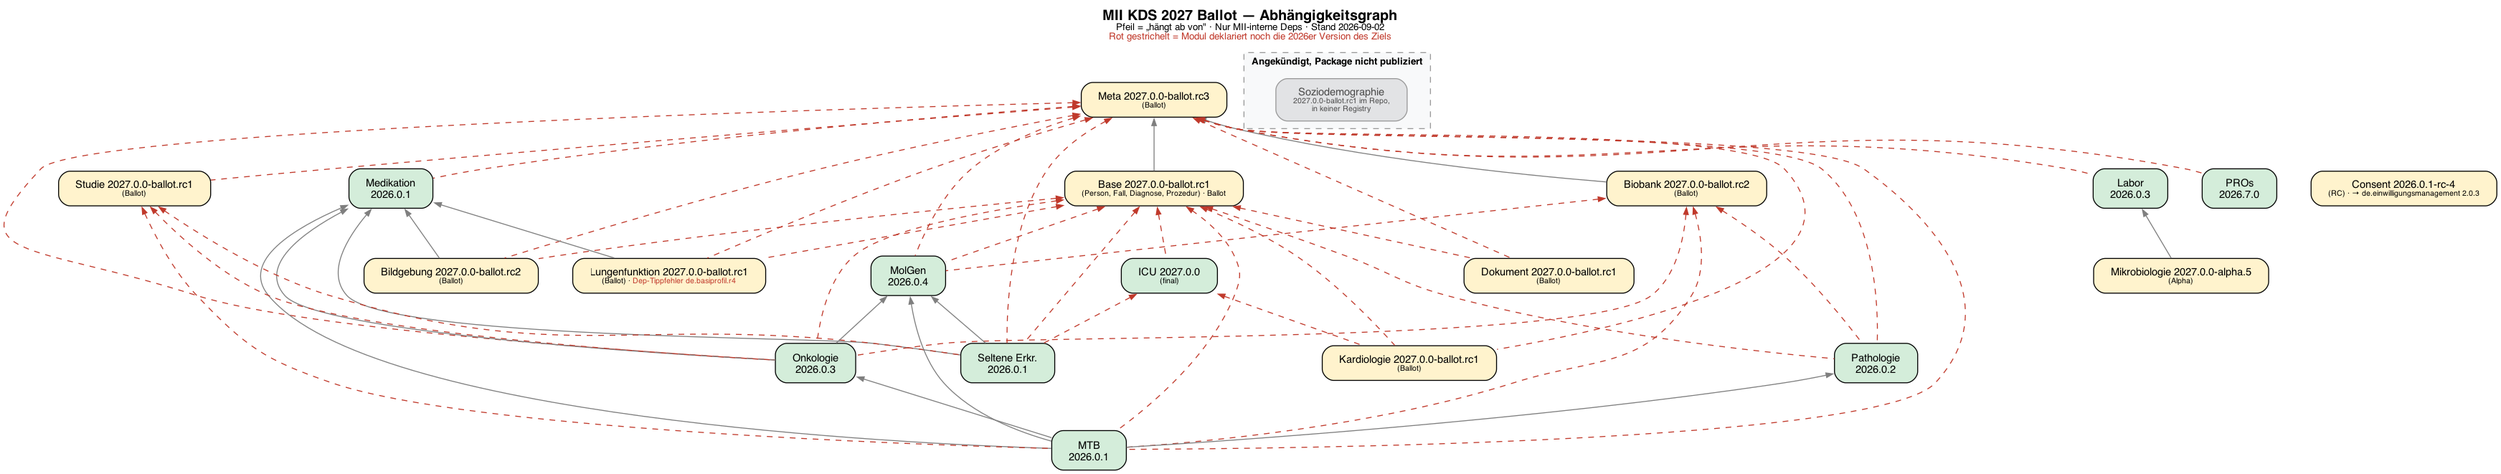
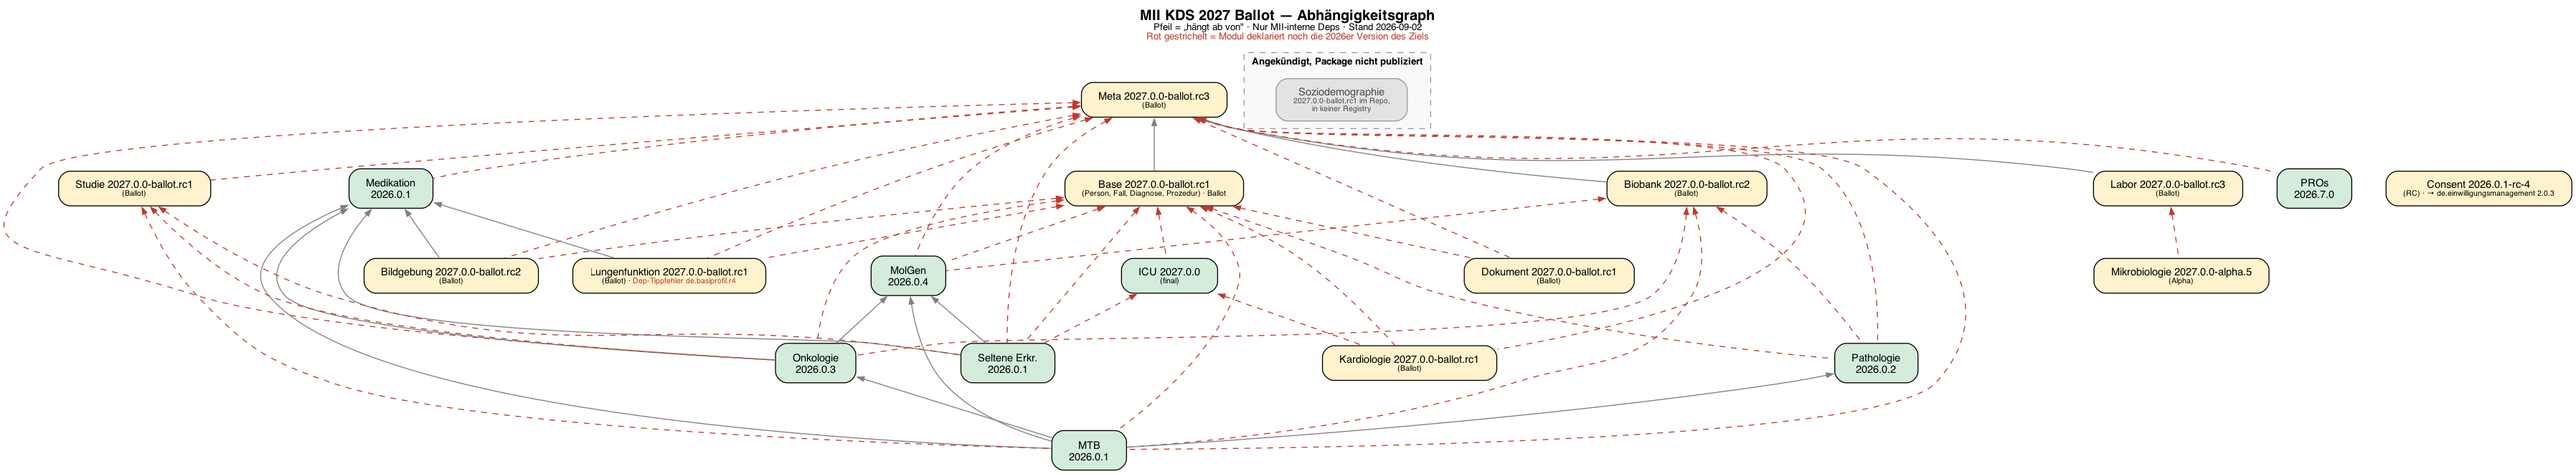
Laborbefund auf 2027.0.0-ballot.rc3, HAPI-Pakete ueber lokale Tarballs
Laborbefund hat drei Ballot-RCs auf einmal veroeffentlicht. Alle drei
deklarieren meta 2027.0.0-ballot.rc3 -- die Ballot-Linie ist damit an einer
weiteren Stelle kohaerent. Neu ziehen sie hl7.fhir.uv.ips 2.0.1 statt 2.0.0
sowie hl7.fhir.uv.crmi 2.0.0 und hl7.terminology.r4 7.1.0.

Zurueckgefallen ist dafuer Mikrobiologie 2027.0.0-alpha.5, das weiterhin
laborbefund 2026.0.3 fordert -- im Graphen jetzt rot gestrichelt.

Korrektur der frueheren Diagnose zum Validation-Server: HAPIs JpaPackageCache
liest den Dateisystem-Cache unter ~/.fhir/packages ueberhaupt nicht. Der
vorherige Fix (Pfad und Besitzer) war deshalb wirkungslos; dass ein Lauf
durchging, lag daran, dass die Registry in dem Moment nicht drosselte. HAPI
bekommt die Pakete jetzt ueber packageUrl aus lokalen Tarballs unter
/app/packages. Der Dockerfile laedt sie im Build ueber beide Registries mit
Retry, bereinigt und packt sie neu und bricht bei einem fehlgeschlagenen
Download ab, statt still ein unvollstaendiges Image zu erzeugen.

Gegenprobe: docker run --network none startet den Server vollstaendig durch,
7049 Ressourcen indiziert, 0 Registry-Versuche, 0 Ladefehler.

Laborbefund 2027.0.0-ballot.rc3 validiert alle sechs mitgelieferten Beispiele
fehlerfrei.

Claude-Session: https://claude.ai/code/session_01MJTiFA65uRigwFL6K5K7D4

diff --git a/docs/validation-2027.0.0-ballot.1.md b/docs/validation-2027.0.0-ballot.1.md
@@ -1,12 +1,20 @@
 # Validierungsbericht — BOM 2027.0.0-ballot.1
 
-Stand: 2026-09-02 · HAPI FHIR 7.6.0 · alle 27 gepinnten Pakete aus dem Pre-Cache, kein Registry-Zugriff zur Laufzeit.
+Stand: 2026-09-03 · HAPI FHIR 7.6.0 · alle 27 gepinnten Pakete als lokale Tarballs, verifiziert offline (`--network none`).
 
 ## Aufbau
 
-BOM-Paket gebaut mit `./scripts/build-bom-package.sh`: 19 Module, **1371 Conformance-Ressourcen**, 1042 Examples, 11 MB, **0 Dateinamen-Kollisionen**.
+BOM-Paket gebaut mit `./scripts/build-bom-package.sh`: 19 Module, **1373 Conformance-Ressourcen**, 1047 Examples, 11 MB, **0 Dateinamen-Kollisionen**.
 
-HAPI startet in 30 Sekunden und indiziert **7144 Ressourcen** aus 27 Paketen — ohne einen einzigen Konflikt beim Laden.
+HAPI startet in 26 Sekunden und indiziert **7049 Ressourcen** aus 27 Paketen — ohne einen einzigen Konflikt beim Laden.
+
+### Wie die Pakete zu HAPI kommen
+
+**HAPIs `JpaPackageCache` liest den Dateisystem-Cache unter `~/.fhir/packages` nicht.** Ohne weitere Konfiguration lädt der Server bei jedem Start jedes Paket erneut von `packages.fhir.org` — und scheitert dort früher oder später an `429 Too Many Requests` mit `HAPI-1301: Unable to locate package`. Ein Lauf, der durchgeht, ist dann Zufall, kein Beleg.
+
+Der Server bekommt die Pakete deshalb über `packageUrl: file:///app/packages/<name>-<version>.tgz`. Der Dockerfile lädt die Tarballs im Build, bereinigt sie (base64-PNGs wegen HAPI-1821, Examples, macOS-Resource-Forks) und packt sie neu; ein fehlgeschlagener Download bricht den Build jetzt ab, statt still ein unvollständiges Image zu erzeugen.
+
+Gegenprobe: `docker run --network none` startet den Server vollständig durch — 7049 Ressourcen, 0 Registry-Versuche, 0 Ladefehler.
 
 ## Die zentrale Frage: brechen die doppelten Canonicals?
 
@@ -18,8 +26,8 @@ Das Risiko bleibt für Konsumenten, die die Module **einzeln** statt über die B
 
 | | Anzahl |
 |---|---|
-| Terminologie-Fehler | 14 |
-| Strukturelle Fehler | 230 |
+| Terminologie-Fehler | 15 |
+| Strukturelle Fehler | 238 |
 
 ### Terminologie (14) — erwartbar
 
@@ -57,11 +65,15 @@ Betroffen z.B. `mii-pr-icu-score-rass`, `mii-pr-icu-untersuchung-pupillenbefund`
 
 Consent scheiterte an einer nicht auflösbaren Profilreferenz — das Profil *ist* im Paket, aber HAPI lädt Consent gar nicht (HAPI-1821-Workaround, Issue `mii-kds-complete-5e3`). Konfigurationslücke, kein Paketfehler.
 
+### Laborbefund 2027.0.0-ballot.rc3 — ohne Befund
+
+Alle sechs mitgelieferten Beispiele validieren **fehlerfrei** gegen ihre Profile: 0 Terminologie-, 0 strukturelle Fehler.
+
 ## Nebenbefunde aus dem Build
 
 - **ICU 2027.0.0**: zwei verschiedene ValueSets teilen sich dieselbe canonical URL (`mii-vs-icu-code-observation-extrakorporale-verfahren-loinc`). Verifiziert im unveränderten Registry-Paket.
 - **Dokument und Seltene**: macOS-Resource-Forks (`._package.json`) in den publizierten Tarballs. Der Build filtert sie jetzt.
-- **validation-server/Dockerfile**: der Pre-Cache lag unter `/root/.fhir/packages` mit Besitzer 1001, HAPI läuft aber als 65532 mit Home `/home/nonroot`. Der Cache war wirkungslos, HAPI lud bei jedem Start alle Pakete neu und scheiterte an `429 Too Many Requests`. Behoben.
+- **validation-server/Dockerfile**: der Pre-Cache unter `~/.fhir/packages` war grundsätzlich wirkungslos (siehe oben) und der Download-Loop prüfte nicht, ob `curl` erfolgreich war — ein unvollständiges Image lief grün durch. Beides behoben: lokale Tarballs über `packageUrl`, Retry über beide Registries, harter Abbruch bei Fehlschlag.
 
 ## Reproduzieren
 

diff --git a/input/pagecontent/index.md b/input/pagecontent/index.md
@@ -22,7 +22,7 @@ Während das [Meta-Modul](https://github.com/medizininformatik-initiative/kernda
 >
 > Neu in dieser BOM sind **Kardiologie** und **Lungenfunktion** (beide 2027.0.0-ballot.rc1). Lungenfunktion deklariert dabei die Abhängigkeit `de.basiprofil.r4` — ein Tippfehler, das Paket existiert nicht und die Abhängigkeit ist nicht auflösbar. **Soziodemographie** ist angekündigt, aber in keiner Registry publiziert und daher nicht gepinnt.
 >
-> Repariert gegenüber dem vorigen Stand: **Biobank 2027.0.0-ballot.rc2** verweist jetzt korrekt auf Meta 2027.0.0-ballot.rc3 statt auf 2026.0.0.
+> Repariert gegenüber dem vorigen Stand: **Biobank 2027.0.0-ballot.rc2** und **Laborbefund 2027.0.0-ballot.rc3** verweisen jetzt korrekt auf Meta 2027.0.0-ballot.rc3 statt auf 2026.0.0. Neu zurückgefallen ist dafür **Mikrobiologie 2027.0.0-alpha.5**, das weiterhin Laborbefund 2026.0.3 fordert.
 
 
 ## Abhängigkeitsgraph
@@ -42,7 +42,7 @@ Während das [Meta-Modul](https://github.com/medizininformatik-initiative/kernda
 | Base (Person, Fall, Diagnose, Prozedur, Consent) | `de.medizininformatikinitiative.kerndatensatz.base` | 2027.0.0-ballot.rc1 | [kerndatensatz-basis](https://github.com/medizininformatik-initiative/kerndatensatz-basis) | [v2027.0.0-ballot.rc1](https://github.com/medizininformatik-initiative/kerndatensatz-basis/releases/tag/v2027.0.0-ballot.rc1) (2026-09-01) |
 | Meta | `de.medizininformatikinitiative.kerndatensatz.meta` | 2027.0.0-ballot.rc3 | [kerndatensatz-meta](https://github.com/medizininformatik-initiative/kerndatensatz-meta) | [v2027.0.0-ballot.rc3](https://github.com/medizininformatik-initiative/kerndatensatz-meta/releases/tag/v2027.0.0-ballot.rc3) (2026-09-01) |
 | Medikation | `de.medizininformatikinitiative.kerndatensatz.medikation` | 2026.0.1 | [kerndatensatzmodul-medikation](https://github.com/medizininformatik-initiative/kerndatensatzmodul-medikation) | [v2026.0.1](https://github.com/medizininformatik-initiative/kerndatensatzmodul-medikation/releases/tag/v2026.0.1) (2026-02-13) |
-| Laborbefund | `de.medizininformatikinitiative.kerndatensatz.laborbefund` | 2026.0.3 | [kerndatensatzmodul-labor](https://github.com/medizininformatik-initiative/kerndatensatzmodul-labor) | [2026.0.3](https://github.com/medizininformatik-initiative/kerndatensatzmodul-labor/releases/tag/2026.0.3) (2026-06-11) |
+| Laborbefund | `de.medizininformatikinitiative.kerndatensatz.laborbefund` | 2027.0.0-ballot.rc3 | [kerndatensatzmodul-labor](https://github.com/medizininformatik-initiative/kerndatensatzmodul-labor) | [v2027.0.0-ballot.rc3](https://github.com/medizininformatik-initiative/kerndatensatzmodul-labor/releases/tag/v2027.0.0-ballot.rc3) (2026-09-02) |
 
 ### Erweiterungsmodule
 
@@ -105,7 +105,7 @@ Pakete ohne Pin werden weiterhin transitiv aufgelöst; ihre Version ergibt sich 
 | DVMD KDL (`dvmd.kdl.r4`) | 2025.0.1 (Dokument), 2026.0.0 (ICU) | Dokument, ICU |
 | DICOM (`fhir.dicom`) | 2025.3.20250714 | Bildgebung |
 | IHE FormatCode (`ihe.formatcode.fhir`) | 1.4.0 | Dokument |
-| HL7 International Patient Summary (`hl7.fhir.uv.ips`) | 2.0.0 | Medikation, Laborbefund |
+| HL7 International Patient Summary (`hl7.fhir.uv.ips`) | 2.0.0 (Medikation), 2.0.1 (Laborbefund) | Medikation, Laborbefund |
 | HL7 Structured Data Capture (`hl7.fhir.uv.sdc`) | 3.0.0 (PROs), 4.0.0 (ISiK 6.0.0) | PROs, ISiK |
 | HL7 mCODE (`hl7.fhir.us.mcode`) | 2.1.x | Pathologie |
 | HL7 CRMI (`hl7.fhir.uv.crmi`) | 2.0.0 | Base, Meta |
